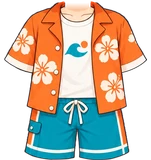
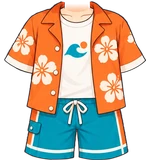
남아 비치룩: 옷깃 복구 + 격자로 크기·위치 확정 (#747)
* 해적 신발 크기·위치 재조정 (베이스 다리 비율에 맞춤)

- 해적 남아 원화와 비교해 베이스가 다리가 짧고 가늘어서, 신발 높이를 112로
  줄이고 윗선을 y827에 맞춤(발바닥 y939)
- 왼짝·오른짝을 따로 배치해 발별로 미세 조정할 수 있게 함
- 같은 파일명이라 경로에 ?v=2

Claude-Session: https://claude.ai/code/session_018maNuYqDfFyRSe9uKpZhPR

* 오늘의 발견을 수첩에 붙인 메모지 디자인으로 변경

- 크림색 종이 질감 + 연두 마스킹테이프, 테두리 없이 그림자·거친 가장자리로만 표현
- 수첩보다 살짝 좁게, '오늘의 발견'은 작게 · 발견 내용은 진한 갈색으로 크게
- 도감 버튼을 오른쪽 작은 알약 버튼(도감 N개 ›)으로
- '탐험일지' 머리말 아래 · 수첩 바로 위로 이동
- App.jsx에서 DiscoveryMemo 컴포넌트로 분리

Claude-Session: https://claude.ai/code/session_018maNuYqDfFyRSe9uKpZhPR

* 오늘의 발견 메모지: 글씨 줄이고 테이프를 왼쪽 위 모서리 대각선으로

- 발견 내용 16.5 → 14 (폰에서 짧은 힌트도 두 줄로 꺾이던 문제), 머리말·도감 버튼·아이콘도 한 단계씩
- 위쪽 가운데 테이프가 '탐험일지' 머리말 줄과 겹쳐 보여 왼쪽 위 모서리에 대각선으로

Claude-Session: https://claude.ai/code/session_018maNuYqDfFyRSe9uKpZhPR

* 오늘의 발견 메모지: 힌트 날의 발자국 아이콘 제거

발자국 자리만큼 힌트가 한 줄에 더 들어가게 함. 찾은 날의 발견 이모지는 유지.

Claude-Session: https://claude.ai/code/session_018maNuYqDfFyRSe9uKpZhPR

* 남아 아바타 기본 몸체 새 버전으로 교체

사용자 제공 원화(갈색 짧은 머리)로 body.webp 업데이트.
버전을 v8 → v9로 올려 기존 기기 캐시 무효화.
art-src/body-boy-src.webp에 원본 보관 (webp q92).

Claude-Session: https://claude.ai/code/session_018maNuYqDfFyRSe9uKpZhPR

* 남아 베이스 v9 탑재 바로잡기 (머리 겹침·비율 깨짐 수정)

직전 커밋은 원화(머리 포함 전신)를 1024×1024로 통째로 늘려 body.webp에 넣어
베이스 머리가 그 위에 또 그려지고 몸 비율도 깨졌다. v8과 같은 공식으로 다시 탑재:
- 알파 상자를 v8 자리(y89~942, 가로 중심 512)에 맞춤 — 실루엣 IoU 0.976이라 장비 재조정 불필요
- y405에서 가로로 잘라 head/body, 합본 default까지 3장 교체, 경로 ?v=9
- art-src: base-v9-boy-src.webp로 이름 정리, 규칙 6에 따라 base-v8-boy-src 삭제
[…]

diff --git a/src/data/avatarEquipment.js b/src/data/avatarEquipment.js
@@ -283,8 +283,10 @@ export const AVATAR_CATALOG = [
   { id: "top_hoodie_mint", slot: "top",  label: "민트 후드",    emoji: "🧥", price:DECOR_PRICE.rare, rarity: "rare", theme: "common", forGender: "boy", coversBottom: true, img: "assets/avatar/top/hoodie-boy.webp?v=2", thumb: "assets/avatar/thumb/top_hoodie.webp?v=2" },
   /* 비치룩 [2026-10-02] — 꽃무늬 오렌지 셔츠 + 흰 티 + 청록 수영 반바지 한 벌(사용자 원화). 비치 테마가 없어 공용(common).
      원화 목 중심을 베이스 목 중심(x516)에, 턱선(원화 y28)을 y402 에 맞추고 어깨가 다 가려지는 배율 0.72 로 얹었다.
-     턱은 지우고, 원화 턱선이 베이스 턱보다 ~7px 낮아 목 위쪽(원화 y30~52)을 서서히 투명하게 해서 베이스 목과 섞었다. */
-  { id: "top_beach_boy",  slot: "top",   label: "비치룩",       emoji: "🌺", price:DECOR_PRICE.rare, rarity: "rare", theme: "common", forGender: "boy", coversBottom: true, img: "assets/avatar/top/beach-outfit-boy.webp", thumb: "assets/avatar/thumb/top_beach.webp" },
+     턱은 지우고, 원화 턱선이 베이스 턱보다 ~7px 낮아 목 위쪽(원화 y30~52)을 서서히 투명하게 해서 베이스 목과 섞었다.
+     [2026-10-02 격자 확정] 턱을 지울 때 깃 끝 윤곽선까지 지워져 잘려 보였다 → 턱 살과 그 둘레만 지우게 고쳐 되살림.
+     사용자가 격자로 보고 배율 2% 줄이고(0.7056) 위로 3(원화 y28 → y399) 확정. 탑재 상자 (359,393)-(665,737). */
+  { id: "top_beach_boy",  slot: "top",   label: "비치룩",       emoji: "🌺", price:DECOR_PRICE.rare, rarity: "rare", theme: "common", forGender: "boy", coversBottom: true, img: "assets/avatar/top/beach-outfit-boy.webp?v=2", thumb: "assets/avatar/thumb/top_beach.webp?v=2" },
   /* 도토리 탐험복 — 남아 (사용자 원화 2026-09-26). 크림 셔츠 + 나뭇잎 망토 +
      도토리 금브로치 + 가죽 벨트 + 갈색 카고 반바지.
      원화가 '옷만 오려 낸 깨끗한 그림'이라(연결 조각 1개·안쪽 구멍 0) 색으로

diff --git a/art-src/README.md b/art-src/README.md
@@ -360,7 +360,7 @@ getBoundingClientRect로 재서 정한다. 2026-08-05 점검에서 이 기준을
 | (신발·가방 검사 2026-09-25) | **신발 5종·가방 4종 모두 깨끗했다** (조각·구멍 없음, 흰·자홍 배경 둘 다 확인). 다만 **아홉 개 다 상점에 없다** — 2026-08-20 사용자 확정으로 뺀 은퇴 아이템이고 그림만 남겨 둔 것이다(RETIRED_ITEM_INFO 참고). 하의 3종(크림·데님·카키 반바지)도 같다. 다시 넣게 되면 그대로 쓸 수 있다 | (미탑재 — 파일만 보관) |
 | (모자 2종 청소 2026-09-25) | **해적 모자·딸기 밀짚모자** — 원화가 '쓰고 있는 머리 그림'이라 색으로 얼굴을 떼어냈는데 조각이 남아 있었다. 해적 모자는 **두 눈과 앞머리가 통째로** 붙어 있어 상점 카드가 '눈 달린 모자'였다. 쓴 모습에선 베이스 얼굴과 겹쳐 안 보여 여태 안 드러났다. 모자색(남색 b−r>8 / 주황 r−g>60 & r>200)으로 고갱이를 잡고 3px 부풀려 윤곽선을 되찾은 뒤, 가장 큰 덩어리만 남기고 챙 아래 갈색(r−b>25, r<195)을 털었다 — 5,966+920px. 밀짚모자는 같은 방식이 **챙 윤곽선까지 갉아먹어서**(윤곽 lum≈150, 머리카락 lum≈50) 밝기로 갈랐다: y≥158 에서 lum<120 & r−b>35 만 제거 (2,112px + 부스러기 39px). 사파리 머리띠는 10px뿐이라 그대로 뒀다. 경로에 `?v=2` | avatar/hat/pirate-hat-girl.webp · picnic-hat-girl.webp |
 | hoodie-boy-src.webp | **민트 후드 원화 남아 — 새 판 (사용자 원화 2026-10-02, 이전 판 교체)**. 465×720 투명 배경, 민트 집업 후드 + 흰 티 + 남색 카고 긴바지 한 벌. 위쪽에 베이스 턱·목이 함께 그려져 있어 그 턱으로 위치를 잡았다: 턱+목(원화 y0~100 · x95~365, 살색·갈색 선 마스크)을 베이스 민머리 몸에 마스크 템플릿 매칭 → 배율 0.695 · 왼쪽 위 (355,365). 탑재 전 열마다 맨 아래 살색까지의 살색·갈색·반투명 픽셀을 지워 턱을 없앤 뒤, 목 살은 원화 y53 아래부터 되살렸다 (다 지우면 목 구멍으로 베이스 민소매 끈이 비침 · y55 는 이음새 줄이 보임). 위쪽 부스러기 조각 제거 → 조각 1개. 속옷 비침 0. 탑재 상자 (355,385)-(678,865). 경로 ?v=2 | avatar/top/hoodie-boy.webp · thumb/top_hoodie.webp |
-| beach-boy-outfit-src.webp | **비치룩 원화 남아 (사용자 원화 2026-10-02)**. 433×507 투명 배경, 꽃무늬 오렌지 셔츠 + 흰 티 + 청록 수영 반바지 한 벌. 위쪽에 베이스 턱·목이 함께 그려져 있다. 턱 곡선 매칭은 오차가 커서(8px) 쓰지 않고, 원화 목 중심(x222.3)을 베이스 목 중심 x516 에, 원화 턱선 y28 을 y402 에 고정한 뒤 어깨 드러남이 줄어드는 배율을 골랐다 → 배율 0.72 · 왼쪽 위 (355.9,381.8). 원화 y30 위의 살색·갈색·반투명 픽셀 제거(턱), 원화 턱선이 베이스 턱보다 ~7px 낮아 목 살(원화 y30~52, x150~300)을 위에서 아래로 0→1 로 페이드, 목 가운데 남은 턱선 조각(갈색 112px) 제거 → 조각 1개, 속옷 비침 13px(경계). 탑재 상자 (356,398)-(668,747) | avatar/top/beach-outfit-boy.webp · thumb/top_beach.webp |
+| beach-boy-outfit-src.webp | **비치룩 원화 남아 (사용자 원화 2026-10-02)**. 433×507 투명 배경, 꽃무늬 오렌지 셔츠 + 흰 티 + 청록 수영 반바지 한 벌. 위쪽에 베이스 턱·목이 함께 그려져 있다. 턱 곡선 매칭은 오차가 커서(8px) 쓰지 않고, 원화 목 중심(x222.3)을 베이스 목 중심 x516 에, 원화 턱선 y28 을 y402 에 고정한 뒤 어깨 드러남이 줄어드는 배율을 골랐다 → 배율 0.72 · 왼쪽 위 (355.9,381.8). 원화 y30 위의 살색·갈색·반투명 픽셀 제거(턱), 원화 턱선이 베이스 턱보다 ~7px 낮아 목 살(원화 y30~52, x150~300)을 위에서 아래로 0→1 로 페이드, 목 가운데 남은 턱선 조각(갈색 112px) 제거 → 조각 1개. **[격자 확정 2026-10-02]** 처음엔 원화 y30 위의 갈색·반투명을 다 지워 깃 끝 윤곽선이 잘렸다 → 위쪽 가장자리에 닿는 턱 살 덩어리 + 그 7×7 둘레의 주황·살색이 아닌 픽셀만 지우게 고쳐 되살렸다(120px). 사용자가 격자로 보며 배율 0.72 → 0.7056(2% 작게) · 원화 y28 을 y402 → y399(위로 3) 로 확정. 속옷 비침 2px. 탑재 상자 (359,393)-(665,737) · 경로 ?v=2 | avatar/top/beach-outfit-boy.webp · thumb/top_beach.webp |
 | acorn-boy-src.webp | **도토리 탐험복 원화 남아 (사용자 원화 2026-09-26)** — 860×1829 캔버스에 **옷만 오려 낸 깨끗한 그림**(연결 조각 1개, 안쪽 구멍 0). 크림 셔츠 + 나뭇잎 망토 + 도토리 금브로치 + 가죽 벨트 + 갈색 카고 반바지. 민트 후드와 똑같이 캔버스 전체로 퍼진 **알파 1~19 짜리 찌꺼기 9,398px** 이 있어 눌러서 보관했다(정리 후 알파 상자 (79,527)-(781,1377)). **배율 0.42 균등** · 망토 위끝 y383 → 탑재 상자 (366,383)-(661,740). 배율은 **사파리 옷 남아에 맞춰** 잡았다 — 소매부리 폭 293px, 상자 x366~661 로 둘이 거의 같은 자리에 온다(사파리 (366,386)-(659,742)). 같은 몸에 입히는 같은 종류의 옷이라 자리가 어긋나면 갈아입을 때 튄다. **망토 깃 안쪽 목·가슴 살은 남겼다** — 깃 구멍(폭 39)이 베이스 목(폭 67)보다 좁아서 살을 지우면 깃 사이로 구멍이 보인다(민트 후드와 같은 이유, 우주복 깃과 반대). 자홍 검사 통과(조각 1·구멍 0) | avatar/top/acorn-outfit-boy.webp |
 | expedition/item/{lantern,rope,lunchbox,bottle,compass,torch,map}-src.webp | **탐험 준비물 원화 7종 (사용자 원화 2026-09-26~27)** — 88~184px 짜리 작은 그림. 받은 PNG 에 편집기 전용 청크(caBX·eXIf·sBIT·sRGB)가 들어 있어 **PIL 이 파일을 아예 못 열었다** — IHDR·IDAT·IEND 만 남겨 다시 쓰고 나서야 읽혔다(보관본은 그 정리본). **바깥 실루엣은 이미 따여 있었지만 안쪽에 갇힌 흰 배경이 남아 있었다** — 랜턴 손잡이 안·유리 양옆 기둥 사이(3곳 1,574px), 물통 어깨끈 고리 안(3곳 1,035px), 나침반 고리 안(264px), 도시락 손잡이 고리 안(111px). 밧줄·횃불은 깨끗했다. **하이라이트와 배경을 가르는 기준: 덩어리 둘레가 어두운 윤곽선인가.** 배경은 59~86%가 어두운 윤곽선에 둘러싸여 있고, 물통 유리의 흰 반사는 0~8% 였다(물건 색 위에 바로 얹혀 있어서). 지운 자리에 맞닿은 반투명 흰 테도 흰 정도만큼 알파를 깎았다. 배포 높이 96 (배지는 16px 로 그려진다 — 3배 화면까지 넉넉). **[2026-09-27] 보물지도 추가** — 이건 안쪽 흰 배경도 없이 처음부터 깨끗했지만(조각 1·구멍 0), 대신 **알파 1~19 짜리 헤일로 9,508px** 이 있어 알파 상자가 1220×947 → 1254×1206 으로 늘어났다. 안 누르고 자르면 세로로 27% 눌린 지도가 된다(성장 캐릭터와 같은 함정). 7장 합계 **43.5KB** | assets/expedition/item/*.webp |
 | (탈것 64장 갇힌 배경 점검 2026-09-27) | 준비물에 쓴 '갇힌 흰 배경 지우기'를 **탈것 32종 × 남녀 64장 전체**에 돌렸다. **결과: 진짜 갇힌 배경은 홍학 한 종뿐이었다** — 접은 다리와 몸 사이 쐐기(남아 597px · 여아 596+486px). 지우고 가장자리 흰 테도 깎았다. **나머지는 전부 '흰 물건'이라 손대면 안 된다** — 구름(14,915px)·얼음 미끄럼틀(40,450px)·유성 꼬리·돌고래 배·고래 물줄기·돛·오토바이 흙먼지·순록 배·로켓 몸통·유니콘 몸통·수정 하이라이트. 자동 판정으로는 이 둘을 못 가른다 — 준비물에 통했던 '둘레가 어두운 윤곽선인가'도, '투명한 바깥에 닿는가'도 여기선 다 걸린다(만화 그림은 흰 물건에도 윤곽선이 있다). 그래서 **150px 이상 후보 88개를 하나씩 눈으로 보고** 골랐다. 앞으로도 탈것은 자동 일괄 처리 금지 — 후보를 뽑아 보고 고를 것 | assets/expedition/ride/flamingo{,-girl}.webp |
